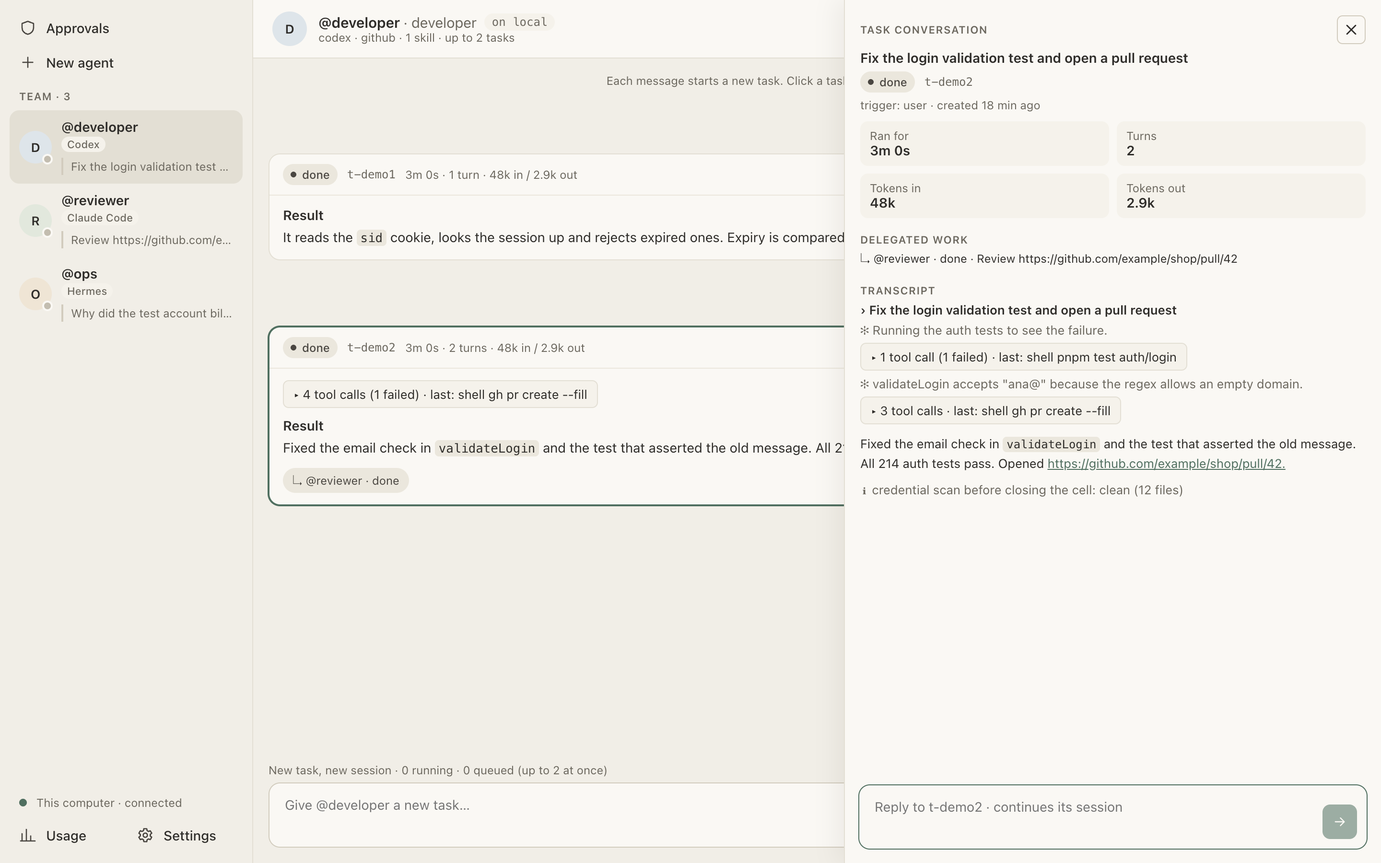
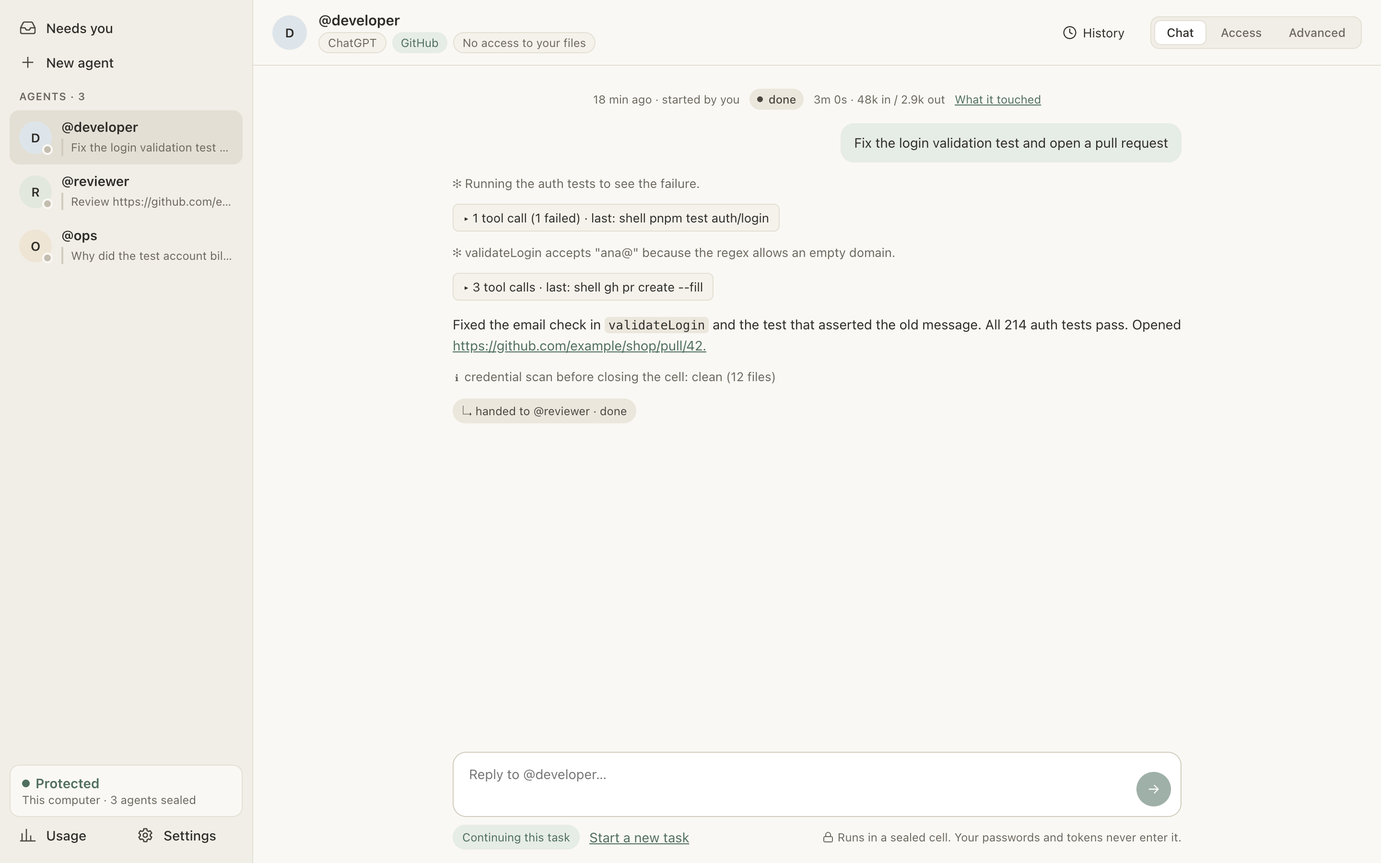
docs(desktop): describe the rearranged app, its inbox and its new guarded actions

diff --git a/anchi/packages/desktop/src/renderer/ui.tsx b/anchi/packages/desktop/src/renderer/ui.tsx
@@ -1,6 +1,6 @@
 import { sanitizeLine } from '@anchi/core/sanitize';
 import type { TaskStatus } from '@anchi/protocol';
-import { type KeyboardEvent, type Ref, useCallback, useState } from 'react';
+import { type KeyboardEvent, type Ref, useState } from 'react';
 
 export function runtimeName(runtime: string): string {
   switch (runtime) {
@@ -208,86 +208,6 @@ export function Composer({
         </button>
       </label>
     </div>
-  );
-}
-
-/** Bounds of the task panel: the conversation beside it keeps at least `main` pixels. */
-export const PANEL_WIDTH = { min: 320, main: 360, initial: 560 };
-const PANEL_KEY = 'anchi.taskPanelWidth';
-
-/** The panel width `want`, given its width `now` and the conversation's width beside it. */
-export function clampWidth(want: number, now: number, mainWidth: number) {
-  const max = now + mainWidth - PANEL_WIDTH.main;
-  return Math.round(Math.max(PANEL_WIDTH.min, Math.min(want, max)));
-}
-
-/** The task panel's width, remembered in this window's storage when it allows it. */
-export function usePanelWidth(): [number, (width: number) => void] {
-  const [width, setWidth] = useState(() => {
-    try {
-      const saved = Number(localStorage.getItem(PANEL_KEY));
-      return saved >= PANEL_WIDTH.min ? saved : PANEL_WIDTH.initial;
-    } catch {
-      return PANEL_WIDTH.initial;
-    }
-  });
-  const save = useCallback((next: number) => {
-    setWidth(next);
-    try {
-      localStorage.setItem(PANEL_KEY, String(next));
-    } catch {
-      // Storage refused: the width lasts until the window closes.
-    }
-  }, []);
-  return [width, save];
-}
-
-/**
- * The drawer's left edge. Resizing leaves part of the task list visible for switching tasks;
- * a double-click restores the default.
- */
-export function Splitter({ width, onResize }: { width: number; onResize: (w: number) => void }) {
-  const drawerWidth = (el: HTMLElement) => el.parentElement?.getBoundingClientRect().width ?? width;
-  const mainWidth = (el: HTMLElement) =>
-    (el.parentElement?.parentElement?.getBoundingClientRect().width ?? width) - drawerWidth(el);
-  return (
-    <div
-      role="separator"
-      aria-orientation="vertical"
-      aria-label="Resize task details"
-      aria-valuenow={width}
-      aria-valuemin={PANEL_WIDTH.min}
-      tabIndex={0}
-      className="splitter"
-      title="Drag to resize · double-click to reset"
-      onPointerDown={(e) => {
-        e.preventDefault();
-        const el = e.currentTarget;
-        const [x, start, main] = [e.clientX, drawerWidth(el), mainWidth(el)];
-        el.setPointerCapture(e.pointerId);
-        const move = (m: PointerEvent) => onResize(clampWidth(start + x - m.clientX, start, main));
-        const up = () => {
-          el.removeEventListener('pointermove', move);
-          el.removeEventListener('pointerup', up);
-          el.removeEventListener('pointercancel', up);
-        };
-        el.addEventListener('pointermove', move);
-        el.addEventListener('pointerup', up);
-        el.addEventListener('pointercancel', up);
-      }}
-      onKeyDown={(e) => {
-        const step = e.key === 'ArrowLeft' ? 24 : e.key === 'ArrowRight' ? -24 : 0;
-        if (!step) return;
-        e.preventDefault();
-        const now = drawerWidth(e.currentTarget);
-        onResize(clampWidth(now + step, now, mainWidth(e.currentTarget)));
-      }}
-      onDoubleClick={(e) =>
-        onResize(
-          clampWidth(PANEL_WIDTH.initial, drawerWidth(e.currentTarget), mainWidth(e.currentTarget)),
-        )
-      }
-    />
   );
 }
 

diff --git a/anchi/packages/desktop/test/desktop.test.tsx b/anchi/packages/desktop/test/desktop.test.tsx
@@ -22,7 +22,6 @@ import { ConnectorLogo, connectorName } from '../src/renderer/logos.tsx';
 import { Markdown } from '../src/renderer/markdown.tsx';
 import { agentActivity, EMPTY_MODEL, reduce } from '../src/renderer/model.ts';
 import { toolSummary, transcript } from '../src/renderer/transcript.ts';
-import { clampWidth, PANEL_WIDTH } from '../src/renderer/ui.tsx';
 import {
   auditHosts,
   composerMode,
@@ -555,13 +554,6 @@ describe('agent conversation', () => {
       { host: 'api.github.com', note: '9 requests · 7 with your account', refused: false },
       { host: 'evil.example', note: '2 requests · 2 refused', refused: true },
     ]);
-  });
-
-  it('keeps the task panel and the conversation beside it usable while resizing', () => {
-    expect(clampWidth(700, 560, 600)).toBe(700);
-    expect(clampWidth(2000, 560, 600)).toBe(560 + 600 - PANEL_WIDTH.main);
-    expect(clampWidth(100, 560, 600)).toBe(PANEL_WIDTH.min);
-    expect(clampWidth(900, 560, 200)).toBe(400);
   });
 });
 

diff --git a/anchi/packages/desktop/scripts/demo.ts b/anchi/packages/desktop/scripts/demo.ts
@@ -358,10 +358,7 @@ writeFileSync(
         { waitFor: '.sidebar' },
         { wait: 1500 },
         { clickText: '@developer' },
-        { waitFor: '.task-card-head' },
-        { wait: 800 },
-        { eval: "[...document.querySelectorAll('.task-card-head')].at(-1).click()" },
-        { waitFor: '.panel .t-message' },
+        { waitFor: '.thread .thread-message' },
         { wait: 800 },
         { shot },
       ]),

diff --git a/docs/DESKTOP.md b/docs/DESKTOP.md
@@ -1,6 +1,6 @@
 # Desktop app
 
-The desktop app connects to the local daemon and saved remote daemons together. The TUI and CLI use the same daemon interfaces. Agents are listed like contacts. Each agent has a conversation in which every message starts a new task with its own runtime session. A task's transcript and replies, which continue that task's session, open in a drawer over the right side of its task list. It runs on macOS and Linux. Windows is untested: it has no local server, so there it could only use a remote one.
+The desktop app connects to the local daemon and saved remote daemons together. The CLI uses the same daemon interfaces. Agents are listed like contacts. Each agent has one conversation: it shows one task at a time, a message continues that task in its session, and **Start a new task** begins another with a session of its own. It runs on macOS and Linux. Windows is untested: it has no local server, so there it could only use a remote one.
 
 ## Install
 
@@ -91,28 +91,23 @@ The script bundles `anchi/packages/desktop` with esbuild and starts Electron. On
 - `ANCHI_SERVER`, else the choice saved by `anchi server <target>`, else `local`.
 - With `local`, it starts the local daemon through `scripts/anchi daemon start` when none is running. Set `ANCHI_CLI` to use another CLI.
 
-One sidebar holds Approvals, New agent, the agents, Usage and Settings, and stays in every view. The status row above Usage names the machine and its connection state, or counts the connected machines when there are several, and opens Settings. In Settings, select a machine card under **Machines** to configure it. With more than one machine, Builder, Approvals and Usage have a styled machine selector and Team groups agents under machine headings; with one machine and no discovered peer, the selector and the headings are left out and the agents are listed directly. An agent view follows the machine of the selected agent. Each row shows a runtime tag below the agent's name, and the selected agent's header identifies its machine. Below the tag, the agent's state or its latest task title is shown as a one-line quote, so every row has the same height; a longer one is cut with an ellipsis and shown in full on hover. The quote's rule is amber while an approval waits and red after an error. When the selected machine is offline, a banner says why and task actions are unavailable. The app keeps its window state, such as the task panel's width, in its own profile: `~/Library/Application Support/Anchi Desktop` on macOS, `~/.config/Anchi Desktop` on Linux. macOS takes an app's name in the menu bar, the Dock and Activity Monitor from its bundle, so on macOS `build.mjs` keeps a copy of Electron.app as `dist/Anchi.app` (name, bundle id `dev.anchi.desktop`, executable and icon changed, signed ad hoc) and `scripts/anchi-desktop` starts that. The copy is made again only when Electron or the icon changes.
+One sidebar holds **Needs you**, **New agent**, the agents, Usage and Settings, in every view except Getting started. Its line above Usage says **Protected** with the machine and the number of agents sealed, **Vault locked** or **Secure room stopped** when agents there cannot work (it then opens Needs you), or **Not connected**; with several machines it counts the connected ones. With more than one machine, New agent and Usage have a machine selector and the agents are grouped under machine headings; with one machine and no discovered peer, the selector and the headings are left out. An agent view follows the machine of the selected agent. Each row shows the agent's name (its `@id` when it has no other name) and its state or latest task title in one line, cut with an ellipsis and shown in full on hover; the line's rule is amber while an approval waits and red after an error. While a machine is not connected, its views show a checklist (background service, secure room, vault, agents) with **Try again** or **Connect** and a link to Machines. The app keeps its window state in its own profile: `~/Library/Application Support/Anchi Desktop` on macOS, `~/.config/Anchi Desktop` on Linux. macOS takes an app's name in the menu bar, the Dock and Activity Monitor from its bundle, so on macOS `build.mjs` keeps a copy of Electron.app as `dist/Anchi.app` (name, bundle id `dev.anchi.desktop`, executable and icon changed, signed ad hoc) and `scripts/anchi-desktop` starts that. The copy is made again only when Electron or the icon changes.
 
 ## Getting started
 
-In **Settings → Machines**, adding a remote server without Anchi offers a native **Initialize**
-dialog. It installs the matching published Linux x86_64 release and starts the daemon through
-SSH, then opens the existing preparation guide. The packaged app includes the setup resources;
-no source checkout is required. A saved machine with a missing bridge shows **Initialize** so
-you can resume later. See [remote requirements and data locations](REMOTE_SERVER.md#set-up-a-server).
+In **Settings → Machines**, **Add a machine** asks for a name and an SSH host that `ssh` on this computer reaches with a key; **Other ways: add an instabox box** switches the form to an instabox machine. Adding a remote server without Anchi offers a native **Initialize** dialog. It installs the matching published Linux x86_64 release and starts the daemon through SSH, then opens the guide. The packaged app includes the setup resources; no source checkout is required. A saved machine with a missing bridge shows **Initialize** so you can resume later. See [remote requirements and data locations](REMOTE_SERVER.md#set-up-a-server).
 
-The window opens Getting started for each server it has not finished the guide for, unless that server already has a ready runtime, an agent and a finished task: switching to a new server opens it again, once per window. The guide has four stages, and Settings → Getting started opens it again:
+The window opens Getting started for each server it has not finished the guide for, unless that server already has a ready runtime, an agent and a finished task: switching to a new server opens it again, once per window. **Settings → About & updates → Open the guide** opens it again. The guide has what Anchi protects on the left and three steps on the right, each available once the one before it is done:
 
-1. **Where Anchi runs:** this computer or a saved remote server (see Settings → Machines). When the server in use cannot be reached, the button says so instead of waiting. On a remote server the guide starts at the next stage.
-2. **Prepare the environment:** lists missing host tools with the command that installs them; otherwise Prepare runs `setup.prepare` for the suggested runtime (start or install the VM, its services and the runtime image, unlock the vault) and shows its output. A system dialog asks first and says to back up the vault key.
-3. **Connect a runtime:** the runtime cards of Settings. For Codex, **Sign in with ChatGPT** opens the sign-in page in your browser and shows a one-time code to enter there; the daemon on the selected machine, local or remote, keeps that login and refreshes it, with no Codex CLI to install. For Claude Code, **Sign in with Claude** opens Claude's sign-in page; on this computer it finishes by itself, and for a remote server you paste the code the page shows into the card. Anchi then stores a one-year subscription token; **Paste a token or API key** is the manual alternative. **Import Codex login** instead imports the login of the machine the daemon runs on; when it has none, the card names what to run there (`codex login`, or on a remote server `instabox ssh <machine>` or `ssh <host>` followed by `codex login --device-auth`).
-4. **Meet your first agent:** creates `@dev` (no connectors, no workspaces) on the suggested runtime, then offers three starter tasks; choosing one opens the agent's conversation.
+1. **Set up the secure room:** lists missing host tools with the command that installs them; otherwise **Set up** runs `setup.prepare` for the suggested runtime (start or install the VM, its services and the runtime image, unlock the vault). A system dialog asks first and says to back up the vault key. The last line of its output shows while it runs; **Show details** shows more. **Use another machine** lists the machines, to prepare a remote server instead.
+2. **Sign in to an AI account:** the account cards of Settings → AI accounts. For ChatGPT (Codex), **Sign in with ChatGPT** opens the sign-in page in your browser and shows a one-time code to enter there; the daemon on the selected machine, local or remote, keeps that login and refreshes it, with no Codex CLI to install. For Claude (Claude Code), **Sign in with Claude** opens Claude's sign-in page; on this computer it finishes by itself, and for a remote server you paste the code the page shows into the card. Anchi then stores a one-year subscription token; **Paste a token or API key** is the manual alternative. **Import Codex login** instead imports the login of the machine the daemon runs on; when it has none, the card names what to run there (`codex login`, or on a remote server `instabox ssh <machine>` or `ssh <host>` followed by `codex login --device-auth`).
+3. **Meet your first agent:** creates `@dev` (no connectors, no workspaces) on the suggested runtime, then offers three starter tasks; choosing one opens the agent's conversation.
 
 Skip for now leaves the guide until it is opened again.
 
 ## What it does
 
-The Team list discovers agents on all connected machines without copying their profiles or granting new delegation permissions. Same-name agents remain separate. Offline machines keep their last known agent list for this desktop session, marked offline.
+The agent list discovers agents on all connected machines without copying their profiles or granting new delegation permissions. Same-name agents remain separate. Offline machines keep their last known agent list for this desktop session, marked offline.
 
 A working agent's avatar has a small, pale green dot orbiting it every 2.8 seconds, with no
 ring or glow. Adjacent rows start at different positions to keep a busy team visually quiet.
@@ -120,7 +115,7 @@ The dot stops when work finishes or the machine disconnects; waiting approvals, 
 and errors keep their own status dots and text. The system's reduced-motion preference keeps
 the working dot stationary.
 
-When Team shows host headings, click one to collapse or expand its agents; Enter or Space also toggles a
+When the agent list shows host headings, click one to collapse or expand its agents; Enter or Space also toggles a
 focused heading. Its agent count and connection status remain visible when collapsed. Each
 host starts expanded and remembers your choice across navigation and app restarts, keyed by
 its connection target. Collapsing a host keeps its connection, running tasks and the open
@@ -136,48 +131,49 @@ managed on the execution node. Node aliases must be saved on the coordinator. Se
 
 | Area | What you can do |
 |---|---|
-| Team | Pick an agent from any connected machine; its tasks read as a conversation. The box under it starts a new task in a new session; nothing carries over from the tasks above. User messages and result cards use the same wider limit and balanced side spacing. Each card shows the status, the folded tool calls, what the agent is doing, and the result, with delegated tasks as chips. Task details start closed: click anywhere on a task card to slide its conversation in from the right; buttons and links in the card keep their own action, and selecting text does not open it. The header says **Details ›** while the task runs and **Continue this task ›** once its turn has ended, in which case the drawer opens with the cursor in its reply box. Click the header again, use Close or press Esc to slide it out. The drawer overlays the list without resizing it, and its left edge remains resizable. Hiding and reopening the same task preserves an unsent reply. |
-| Agent settings | The Settings tab beside an agent's conversation edits its name, description, runtime, model, reasoning effort, system prompt (added to or replacing the template's), skills, connectors, delegation recipients and workspaces. Review changes shows the change to the agent file, with its errors and warnings; Apply writes it, and is refused if the file changed since the review. High-risk operations (merging a pull request, pushing to the default branch and the others in the agent's connectors) can be let through without approval for this agent. Settings only the agent file sets (template, image, sandbox, triggers, approvals, egress) are shown read-only. |
-| Task panel | The selected task's time, turns and tokens, delegated work, full transcript, a reply that continues its session, and Cancel, Retry or Start over. Drag its left edge, or focus the edge and use the arrow keys, to resize it; a double-click restores the default. The conversation keeps at least 360 pixels. The width is remembered on this computer. |
-| Agent builder | One conversation with the builder, or an empty starter (agent id and runtime) with no model call. A proposal opens in a panel the app draws from the proposed file, with its diff, errors and warnings; Apply writes it, Discard drops it. |
-| Approvals | Held writes appear inside the task's card and in the Approvals view. Each shows the connector, operation, reason, origin chain, the full summary and a countdown, then Deny and Approve. A write left waiting is refused when its time runs out. |
-| Usage | Select a machine to see its usage. Subscription windows per runtime, and token totals by agent, model, runtime or day over 24 hours, 7 or 30 days. |
-| Settings | Machines (`local` and the saved remote servers of `anchi server ls`: connect several together, configure one, add an instabox machine or any SSH host under a name, or forget one), environment, runtimes, proxy connectors (token connect and disconnect), service connectors (browser sign-in for Gmail, Drive, X and Reddit, a token for Notion and Slack, disconnect, auto or ask writes) and skills. The selected machine card scopes environment, runtime, connector, service and skill cards and all their actions. Switching machines closes open credential forms and clears the previous machine's configuration view; credentials are never copied between machines. Each runtime shows Connected or Not set up with a Set up or Replace button: Codex imports the server machine's `codex login`, Claude Code takes a token or API key, Hermes takes a base URL, model and API key. Connectors and services are listed by name with the service's mark, here and in an agent's Settings tab; the marks are bundled Simple Icons paths, and AWS, Firecrawl and Slack, which Simple Icons does not carry, show their initial. A connector's token, Notion's or Slack's included, like a runtime's credentials, is typed in a form that opens under its row; Escape closes it. The form says where the token comes from. A connector that is not connected links to its setup guide (**How to connect ↗**), a section of [Connectors](CONNECTORS.md), through `https://anchi.elseward.xyz/docs/connect/<name>`. Gmail, Drive, X or Reddit without the OAuth app their sign-in needs link the guide as **Needs an OAuth app ↗** and offer **Add app** instead of **Sign in**: Google's client JSON is chosen in a system file dialog and read by the app, not the window, and X and Reddit take the app's Client ID (Reddit also the developer username). **Sign in** appears once the server has the app. A service's Disconnect asks first in a system dialog that says whether the provider revokes the credential too; Gmail and Drive list each account on its own row, and an account or service whose remote revocation is still pending offers Revoke again. Skills are added from a GitHub address (pinned to its current commit), or, with the local server, from a folder chosen in a system file dialog; Check for update shows the newer commit and the files it changes before Update installs it; Remove asks in a system dialog that names the agents still listing the skill. |
+| Agents | Pick an agent from any connected machine. Its header shows the AI account it thinks with, its connections and whether it sees any of your folders. **Chat** shows one task as a conversation: what was asked, the folded tool calls, what the agent said, the tasks it handed off, and a held write as an approval card. The box under it replies to that task in its session once its turn has ended; while a turn runs it takes no reply. **Start a new task** switches the box to a new task with a new session, where nothing carries over; **Back to the current task** returns. A failed or cancelled task offers **Retry** (the same session) and **Start over** (a new task with the original request); a running one offers **Cancel**. |
+| Access and Advanced | Two tabs beside Chat edit one draft of the agent's settings. **Access** has its connections, the folders it sees with read-only or read-and-change, the teammates it may hand work to, and the high-risk operations it may do without asking; **In plain words** beside them lists what the agent can and cannot reach, following the draft before it is saved. **Advanced** has its name and description, AI account, model, thinking effort, instructions (added to or replacing the template's), skills and deletion. Review changes shows the change to the agent file, with its errors and warnings; Apply writes it, and is refused if the file changed since the review. Settings only the agent file sets (schedules, websites, per-connection approvals, template, image, sandbox) are shown read-only under Advanced. |
+| History and task record | **History** lists the agent's tasks, newest first, with a search box (words in the title or the result, also searched on the machine for tasks older than the newest 500) and filters for running, waiting-for-you and failed tasks; tasks started by a schedule or another agent carry a clock mark. The selected task shows its time, replies and tokens, the tasks it handed off and its result, with **Open conversation**, Retry, Start over, Cancel task and **Delete…**. Deleting asks in a system dialog that names the task and how many tasks it delegated; a running task must be cancelled first. In a conversation, **What it touched** opens the task's record from the egress proxy's audit log: the accounts used, the websites reached, what was refused, the credential scan and the number of cells. |
+| New agent | Templates (code reviewer, developer, inbox assistant, researcher, social drafter) fill in a request to the builder that you can edit before sending; the builder is one conversation and drafting uses a model call. **Blank agent** takes an id and an AI account and makes a starter with no model call; with saved nodes it can instead name an existing agent on another machine. A proposal opens in a panel the app draws from the proposed file: what the agent could reach in plain words, its errors and warnings, and the file's diff under **View the agent file**. Create agent (or Apply) writes it, Discard drops it. |
+| Needs you | One inbox for every connected machine. Held writes come first, oldest first, each with the connector and host, the operation, the reason, the origin chain, the full summary and a countdown, then Deny and Approve; with several machines each card names its machine, and the decision goes to the machine that holds the write. Below them: a locked vault (**Unlock**), a stopped or outdated secure room (**Start**, **Update**), a machine that does not answer or has no Anchi yet, a machine that can be upgraded, and a newer release of the app (**What's new**, **Copy command**, **Remind me tomorrow**). The sidebar counts all of them. A write left waiting is refused when its time runs out. The same approval card appears in the task's conversation. |
+| Usage | Select a machine to see its usage. Subscription windows per AI account, and token totals by agent, model, account or day over 24 hours, 7 or 30 days. |
+| Settings | Six sections. **AI accounts**: ChatGPT (Codex), Claude (Claude Code) and Other provider (Hermes), each Connected or Not set up, with browser sign-in, importing the server machine's `codex login`, a pasted token or API key, or a base URL, model and API key. **Connections**: proxy connectors and service connectors in one list, by name with the service's mark (bundled Simple Icons paths; AWS, Firecrawl and Slack show their initial). A token is typed in a form that opens under its row (Escape closes it) and says where the token comes from; GitHub also offers **Use the gh login** and AWS **Use an AWS profile**, each after a system dialog that says what agents get. Gmail, Drive, X and Reddit sign in through the browser; without the OAuth app their sign-in needs they link the guide as **Needs an OAuth app ↗** and offer **Add app** (Google's client JSON is chosen in a system file dialog and read by the app, not the window; X and Reddit take the app's Client ID, Reddit also the developer username). Services have **Allow** or **Ask first** for their writes. A service's Disconnect asks first in a system dialog that says whether the provider revokes the credential too; Gmail and Drive list each account on its own row, and an account or service whose remote revocation is still pending offers Revoke again. A connector that is not connected links its setup guide (**How to connect ↗**), a section of [Connectors](CONNECTORS.md), through `https://anchi.elseward.xyz/docs/connect/<name>`. **Skills**: added from a GitHub address (pinned to its current commit) or, with the local server, from a folder chosen in a system file dialog; Check for update shows the newer commit and the files it changes before Update installs it; Remove asks in a system dialog that names the agents still listing the skill. **Machines**: `local` and the saved remote servers of `anchi server ls` (connect several together, configure one, add an SSH host or an instabox machine under a name, upgrade or forget one), and **Link machines into a team**. **Security & recovery**: the vault and where its key is, the secure room's size and versions with **Check & repair** (the same `setup.prepare`), and **Reset Anchi**, which needs the word `reset` typed and then a system dialog. **About & updates**: versions and the guide. With several machines, the sections that belong to a machine have a machine selector; switching machines closes open credential forms, and credentials are never copied between machines. |
 
 Saved machines connect automatically when the app opens and retry independently after connection failures. A missing bridge waits for **Initialize** instead of retrying. **Disconnect** closes only that desktop connection for the rest of the session (until **Connect** or reopening the app); it does not stop the daemon or its tasks. Removing a saved machine closes its connection and removes its rows. The selected machine is remembered as the CLI server choice.
 
-Approvals and Usage show the selected machine's records. The sidebar's approval count includes all machines; use the machine selector to review another machine. Coordinator approvals and usage already include delegated work, so execution-node records are not summed into them.
+Usage shows the selected machine's records; Needs you shows every machine's. Coordinator approvals and usage already include delegated work, so execution-node records are not summed into them.
 
 The app does not:
 
-- delete individual tasks;
-- run single setup steps (`setup.run`) or reset;
-- stop the daemon;
-- import AWS credentials.
+- run single setup steps (`setup.run`); Check & repair runs the whole preparation;
+- stop the daemon or install it at login;
+- change the VM's CPUs or memory;
+- import AWS access keys typed by hand (it connects AWS through a profile);
+- change an agent's schedules, websites (`anchi agents allow-host`) or per-connection approvals, which the agent file sets.
 
-Use the TUI or CLI for these.
+Use the CLI or the agent file for these.
 
-To delete an agent, open its **Settings → Delete agent…**, review the affected data, type its
+To delete an agent, open its **Advanced → Delete agent…**, review the affected data, type its
 exact id and choose **Continue to confirmation**. A native dialog names the agent and machine
 before deleting its configuration, task history (including delegated tasks), triggers and VM
 home, sessions, skills and policy. Active tasks are cancelled. Workspace directories and audit
 logs are retained. The dialog remains open to report partial cleanup and offers another review
 when cleanup must be retried. The built-in builder is protected.
 
-A saved server needs an updated daemon to edit delegation. Older daemons show the allowlist read-only with an upgrade message. The recipient picker lists agents on that machine, excludes the source agent and preserves missing recipients until you remove them. For a team member running elsewhere, edit its coordinator allowlist here and the execution profile’s allowlist on its own machine.
+A saved server needs an updated daemon to edit delegation. Older daemons show the allowlist read-only with an upgrade message. The teammate picker under Access lists agents on that machine, excludes the source agent and preserves missing recipients until you remove them. For a team member running elsewhere, edit its coordinator allowlist here and the execution profile’s allowlist on its own machine.
 
 ## Boundaries
 
 - **Main process:** the Electron main process holds one connection per machine: the local socket and `anchi-bridge` over SSH for a remote server.
 - **The window:** it is sandboxed, with context isolation, no Node integration, a content security policy that loads nothing from the network, no navigation and no new windows.
-- **Calls from the window:** it reaches the main process through a narrow preload API. Every daemon call and notification carries a machine target registered in the main process; unknown or disconnected targets are refused without falling back to another daemon. Native file pickers and confirmation dialogs pin the original connection; disconnecting or reconnecting it while the dialog is open refuses submission. Confirmation dialogs name the machine. Daemon methods outside `DESKTOP_METHODS` (`packages/desktop/src/main/bridge.ts`) are refused there, which includes individual task deletion, reset and daemon shutdown. Agent deletion is explicitly allowed only through its typed-id and native-confirmation flow.
-- **Confirmations the window cannot give:** an agent settings change that gives the agent a new delegation recipient, a new connector, a new workspace or write access to one is confirmed in a system dialog from the main process, which compares the change with the agent's current settings. Cancel there, and the change never reaches the daemon. Removing a skill, preparing the environment (`setup.prepare`), a new high-risk exemption, and letting X or Reddit post without asking are confirmed the same way; the X and Reddit dialog says that agents would then post publicly under the account, also from triggered tasks reading untrusted content. The window adds skills only from `https://github.com/` addresses; a folder on this computer comes from a system file dialog the main process opens, and only for the local server, since a remote server would read the path on its own disk.
-- **Locked vault:** after the server or VM restarts, a banner says the vault is locked and its credentials are still stored, and Settings shows **Unlock the vault** in place of the runtime, connector and service cards. Unlocking goes through `setup.prepare`, whose system dialog asks **Unlock the vault?** when that is all it does.
+- **Calls from the window:** it reaches the main process through a narrow preload API. Every daemon call and notification carries a machine target registered in the main process; unknown or disconnected targets are refused without falling back to another daemon. Native file pickers and confirmation dialogs pin the original connection; disconnecting or reconnecting it while the dialog is open refuses submission. Confirmation dialogs name the machine. Daemon methods outside `DESKTOP_METHODS` (`packages/desktop/src/main/bridge.ts`) are refused there, which includes single setup steps, changing an agent's allowed hosts and daemon shutdown. Destructive methods are allowed only through a native confirmation that the main process builds from what the daemon reports, not from what the window sent: agent deletion (typed id), task deletion (the dialog names the task and counts what it delegated) and reset (the word `reset`, refused while tasks run, checked again after the dialog).
+- **Confirmations the window cannot give:** an agent settings change that gives the agent a new delegation recipient, a new connector, a new workspace or write access to one is confirmed in a system dialog from the main process, which compares the change with the agent's current settings. Cancel there, and the change never reaches the daemon. Removing a skill, preparing the environment (`setup.prepare`), a new high-risk exemption, importing the gh CLI's GitHub login, connecting AWS through a profile, and letting X or Reddit post without asking are confirmed the same way; the X and Reddit dialog says that agents would then post publicly under the account, also from triggered tasks reading untrusted content. The window adds skills only from `https://github.com/` addresses; a folder on this computer comes from a system file dialog the main process opens, and only for the local server, since a remote server would read the path on its own disk.
+- **Locked vault:** after the server or VM restarts, the sidebar says **Vault locked**, Needs you lists it with **Unlock**, and Settings shows **Unlock the vault** in place of the AI account and connection cards; the credentials are still stored. Unlocking goes through `setup.prepare`, whose system dialog asks **Unlock the vault?** when that is all it does.
 - **Agent text:**
   - It is sanitized: control characters, terminal escapes and bidirectional overrides are removed.
   - Its Markdown is drawn as React elements, never as HTML: headings, paragraphs, lists (nested, and numbered from their first number), tables with column alignment (a wide one scrolls sideways; columns past 30 are dropped), quotes, horizontal rules, fenced code, bold, italics, strikethrough, inline code and web links. Quotes and lists stop nesting eight levels deep.
   - A link opens the system browser only for an `http` or `https` address, and its address is shown as its tooltip.
-- **Trusted panels:** builder proposals and approvals are drawn by the app from the daemon's records, under a dark band that agent text cannot produce.
+- **Trusted panels:** builder proposals and approvals are drawn by the app from the daemon's records, under a dark band that agent text cannot produce. The plain-words lists (Access, and a proposal's review) are computed by the app from the agent's settings as the daemon reports them; agent text does not enter them.
 - **Secrets:** a connector or service token typed in Settings goes to the main process and then to the daemon. From there it travels as the CLI's does: into the vault on stdin.
 
 ## Checks
@@ -213,7 +209,7 @@ joining. Native confirmations describe the authority granted to the other daemon
 members discover one another without keeping this desktop app or the first machine online.
 See [Equal peer teams](REMOTE_SERVER.md#equal-peer-teams) for network prerequisites.
 
-Team groups discovered agents by machine and prefers a direct connection when one is available.
-You can submit tasks through a discovered member. Its Settings tab explains which machine owns
+The agent list groups discovered agents by machine and prefers a direct connection when one is available.
+You can submit tasks through a discovered member. Its Access and Advanced tabs explain which machine owns
 its configuration; connect to that machine to edit it. Delegation choices display agent and
 machine labels, including offline members. No delegation permission is added by joining alone.

diff --git a/CHANGELOG.md b/CHANGELOG.md
@@ -8,10 +8,19 @@ Follows the Keep a Changelog structure. The version comes from `anchi/package.js
 
 - Codex can be connected without installing or logging in to the Codex CLI. **Sign in with ChatGPT** on the desktop Codex card, `anchi setup codex --sign-in`, or **g** in the TUI's Runtimes shows a one-time code and opens the sign-in page; enter the code in any browser. The daemon downloads the Codex CLI pinned in `host-tools.env` (SHA-256 checked), keeps the login in `~/.anchi/codex` with its refresh token on the host, imports the access token into the vault and refreshes it before it expires. On a remote server the sign-in runs there and the code shows on your computer. See `docs/GETTING_STARTED.md`.
 - Claude Code can be connected by signing in to Claude in a browser, without installing Claude Code or copying a token. **Sign in with Claude** on the desktop Claude card, `anchi setup claude --sign-in`, or **C** in the TUI's Runtimes opens Claude's sign-in page; on your computer it finishes by itself, and for a remote server you paste the code the page shows. The daemon runs the Claude Code pinned in `host-tools.env` (downloaded from the npm registry, SHA-256 checked) as `claude setup-token` in a pseudo-terminal and stores the one-year subscription token in the vault; the token is never logged. Prepare the environment first: the vault must be unlocked.
+- The desktop app deletes a task (History → **Delete…**) after a system dialog that names the task and counts what it delegated, connects GitHub with the gh CLI's login (**Use the gh login**) and AWS through a profile (**Use an AWS profile**), each after a system dialog that says what agents get, and resets the environment (**Settings → Security & recovery → Reset Anchi**) after the word `reset` is typed and a system dialog; a reset is refused while tasks run. These used to need the CLI or TUI. `DESKTOP_METHODS` gains `tasks.delete`, `connectors.importGh`, `connectors.awsProfile`, `setup.resetPreview` and `setup.reset`.
 
 ### Changed
 
-- The desktop app has one sidebar in place of the icon rail and the separate agent list: Approvals, New agent, the agents, Usage and Settings stay in every view. With a single machine and no discovered peer, the machine selector in Builder, Approvals and Usage and the machine headings in Team are left out; they return when a second machine is saved or a peer is discovered. A status row names the machine and its connection state, or counts the connected machines. See `docs/DESKTOP.md`.
+- The desktop app is rearranged around one sidebar and plainer words. Every action it had is still there; the resizable task drawer is gone with the drawer. See `docs/DESKTOP.md`.
+  - **Sidebar:** Needs you, New agent, the agents, Usage and Settings stay in every view, in place of the icon rail and the separate agent list. With a single machine and no discovered peer, the machine selector and the machine headings are left out. A line says **Protected**, **Vault locked**, **Secure room stopped** or **Not connected**.
+  - **Needs you** replaces the Approvals view, the vault banner and the update notice: one inbox for the held writes of every connected machine, a locked vault, a stopped or outdated secure room, a machine that does not answer, and available upgrades. A decision goes to the machine that holds the write.
+  - **An agent's conversation** shows one task at a time. A message continues that task in its session once its turn has ended; **Start a new task** begins another. Before, every message started a new task and replies were written in a drawer. **History** lists and searches the agent's tasks, with Retry, Start over, Cancel and Delete; **What it touched** shows a task's accounts, websites and refusals from the egress audit log.
+  - **Access and Advanced** replace the agent's Settings tab. Access has connections, folders, teammates and unattended high-risk operations beside the same settings in plain words; Advanced has the rest.
+  - **New agent** replaces Agent builder: templates fill in an editable request, a blank agent needs no model call, and the review panel says in plain words what the agent could reach before showing the file.
+  - **Settings** has six sections (AI accounts, Connections, Skills, Machines, Security & recovery, About & updates). Proxy connectors and services are one list; adding a machine asks for an SSH host first, with instabox as the other way.
+  - **Getting started** is three steps beside what Anchi protects, and a machine that is not up shows a checklist with one action.
+  - Runtimes are called AI accounts (ChatGPT, Claude, Other provider), workspaces shared folders, delegation teammates, and the VM the secure room. Protocol fields, agent file keys and CLI commands keep their names.
 - Lima no longer has to be installed first. When preparing the environment (or `anchi setup install`) finds no Lima 2.2.0 or newer on PATH, Anchi downloads the Lima release pinned in `host-tools.env` for Apple Silicon macOS or Linux x86_64, checks its SHA-256 before extracting anything, installs it into `~/.anchi/lima/<version>` and uses it for the VM. An installed Lima of the required version is used as before. On macOS the remaining prerequisite is `brew install python`. See `docs/GETTING_STARTED.md#lima`.
 - The host no longer needs Python. The vault key is read and sent to the VM by `scripts/vault.mjs`, which replaces `scripts/vault.py` and runs on Anchi's own Node in a short process of its own with core dumps off, so the key is still never in the daemon's memory. The check for running task cells before an install parses the cell list inside the VM. With Lima downloaded too, Apple Silicon macOS needs nothing installed before Anchi; Linux needs QEMU and KVM access. Use `node scripts/vault.mjs status` or `lock` where you used `python3 scripts/vault.py`.
 

diff --git a/SECURITY.md b/SECURITY.md
@@ -11,7 +11,7 @@ This is a development project. It has not completed a security audit and is not 
 - **Remote server:** with the daemon on a [remote server](docs/REMOTE_SERVER.md), that machine's administrator, its login user (whoever can SSH in) and its hosting platform are trusted as the host is. The vault key lives on the same machine as the encrypted vault. A snapshot or fork carries both, and the daemon unlocks the vault with it after a restart. The client reaches the daemon only through SSH and `anchi-bridge`; nothing listens on the network.
 - Upstream credentials never enter the cell. External policy and connectors control requested operations. Hiding keys does not prevent every misuse of an otherwise valid interface.
 - Read content may enter agent context and cloud models. Credential isolation must not be described as keeping sensitive content on the host.
-- Clients strip control characters and escape sequences from agent text. Security decisions (builder proposals, agent settings changes, agent deletion, approvals, setup steps, secret input) use full-screen dialogs drawn by Anchi that agent output cannot reproduce; the Approvals view decides held writes the same way, in a pane that draws no agent transcript. Agent files change only after such a dialog shows the diff, or by your own edits.
+- Clients strip control characters and escape sequences from agent text. Security decisions (builder proposals, agent settings changes, agent deletion, approvals, setup steps, secret input) use full-screen dialogs drawn by Anchi that agent output cannot reproduce; the TUI's Approvals view decides held writes the same way, in a pane that draws no agent transcript, and the desktop app draws each held write as a card under a band agent text cannot produce, in the task's conversation and in its Needs you inbox. Agent files change only after such a dialog shows the diff, or by your own edits.
 
 The desktop can hold several owner-authenticated daemon connections at once. Every call,
 notification and cached record is scoped to a machine; daemon-local ids are never resolved

diff --git a/docs/architecture/AGENT_TEAM_CONTRACTS.md b/docs/architecture/AGENT_TEAM_CONTRACTS.md
@@ -68,7 +68,7 @@ JSON-RPC over `~/.anchi/run/daemon.sock` (mode 0600). Newline-delimited JSON fra
   - `connectors.set` carries a secret. The daemon writes it to the guest administration command's stdin and never stores or logs it. It then verifies the connector, records the account it reports, and removes a credential the service refuses.
 - **Phase 2:**
   - `tasks.search` (agent, status, words, time), `tasks.tree`, `tasks.delete`;
-  - `approvals.list`, `approvals.decide` (called only after the approval dialog or the Approvals view showed the write). A policy approval carries the full frozen parameters in `summary` (at most 65,536 UTF-8 bytes; oversize is refused, not truncated); the TUI labels a preview and offers a wrapped, scrollable full dialog;
+  - `approvals.list`, `approvals.decide` (called only after the approval dialog, the TUI's Approvals view or the desktop app's approval card showed the write). A policy approval carries the full frozen parameters in `summary` (at most 65,536 UTF-8 bytes; oversize is refused, not truncated); the TUI labels a preview and offers a wrapped, scrollable full dialog;
   - `triggers.list`;
   - `skills.list`, `skills.add` (local directory or GitHub URL; a collection without a top-level `SKILL.md` adds each skill and returns `{added, skipped}`), `skills.remove`, `skills.checkUpdate` (what the latest commit of the URL changes, nothing written), `skills.update` (installs the commit the user reviewed);
   - `setup.importClaude`, `setup.importHermes` (`baseUrl`, `apiKey`, `model`; the key on stdin to `hermes_admin.py`); `services.setToken`, `services.disconnect`, `services.setMode` (`auto` or `ask` for every agent; X and Reddit default to `ask`, and `auto` lets agents publish under the user's account without approval; the TUI confirms that first and the CLI prints a warning), `services.googleClient`, `services.googleLogin`.
